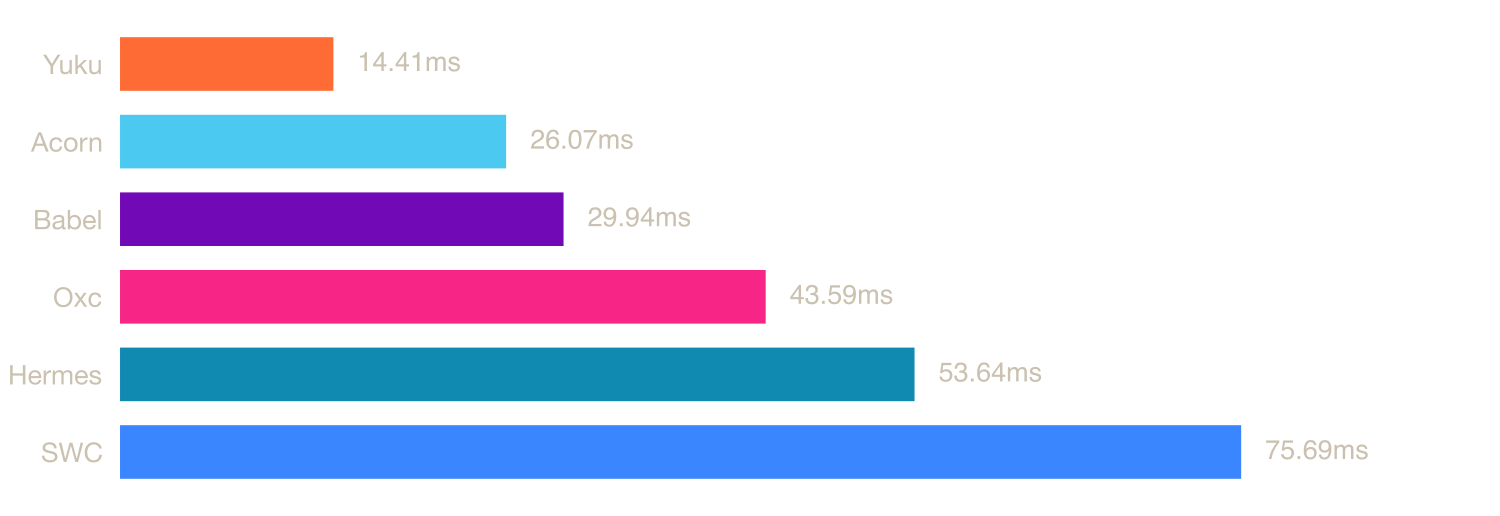
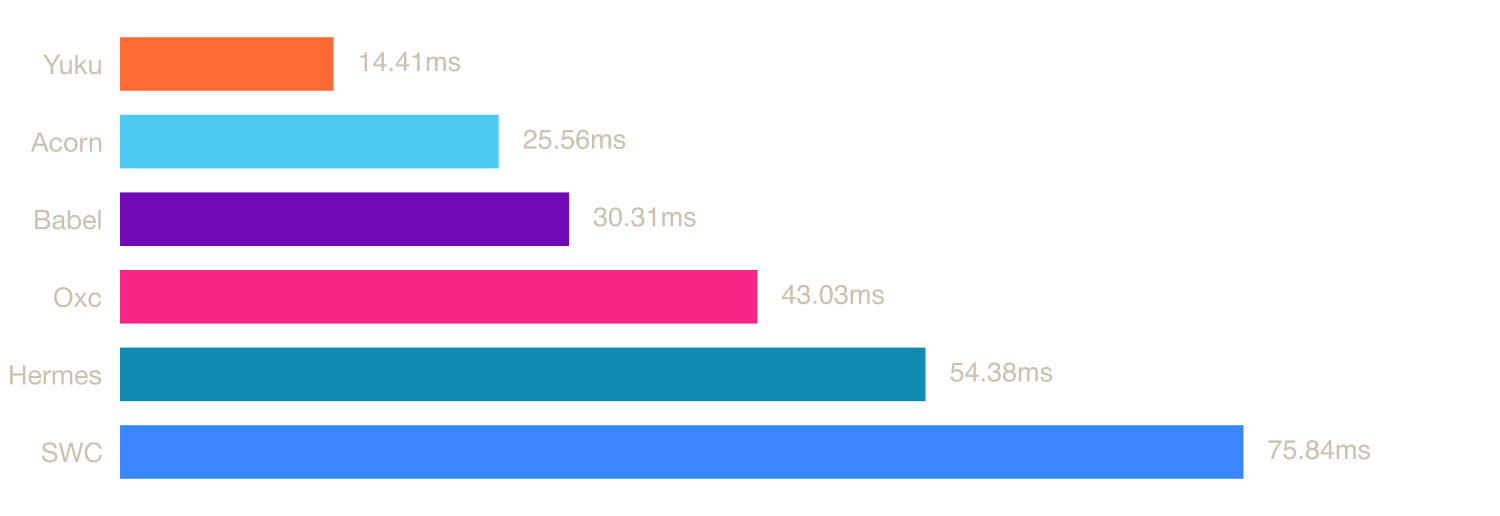
chore: update daily benchmark results

diff --git a/README.md b/README.md
@@ -47,12 +47,12 @@ A high-performance & spec-compliant JavaScript/TypeScript compiler written in Zi
 
 | Parser | Mean | Min | Max |
 |--------|------|-----|-----|
-| Yuku | 50.00 ms | 46.60 ms | 64.62 ms |
-| Acorn | 114.71 ms | 104.52 ms | 130.44 ms |
-| Babel | 155.38 ms | 125.06 ms | 197.03 ms |
-| Oxc | 233.01 ms | 225.61 ms | 256.33 ms |
-| Hermes | 242.55 ms | 218.87 ms | 298.53 ms |
-| SWC | 417.36 ms | 394.00 ms | 482.37 ms |
+| Yuku | 49.42 ms | 46.85 ms | 61.71 ms |
+| Acorn | 112.81 ms | 103.48 ms | 129.08 ms |
+| Babel | 154.58 ms | 125.18 ms | 189.79 ms |
+| Oxc | 232.35 ms | 226.32 ms | 242.29 ms |
+| Hermes | 238.61 ms | 215.66 ms | 270.83 ms |
+| SWC | 414.53 ms | 399.10 ms | 506.23 ms |
 
 ### [three.js](https://raw.githubusercontent.com/yuku-toolchain/parser-benchmark-files/refs/heads/main/three.js)
 
@@ -62,12 +62,12 @@ A high-performance & spec-compliant JavaScript/TypeScript compiler written in Zi
 
 | Parser | Mean | Min | Max |
 |--------|------|-----|-----|
-| Yuku | 14.41 ms | 13.84 ms | 20.74 ms |
-| Acorn | 26.07 ms | 24.27 ms | 31.50 ms |
-| Babel | 29.94 ms | 24.96 ms | 38.01 ms |
-| Oxc | 43.59 ms | 42.13 ms | 49.88 ms |
-| Hermes | 53.64 ms | 49.94 ms | 73.71 ms |
-| SWC | 75.69 ms | 74.31 ms | 79.52 ms |
+| Yuku | 14.41 ms | 13.77 ms | 19.51 ms |
+| Acorn | 25.56 ms | 24.28 ms | 30.30 ms |
+| Babel | 30.31 ms | 24.46 ms | 44.19 ms |
+| Oxc | 43.03 ms | 41.94 ms | 47.66 ms |
+| Hermes | 54.38 ms | 50.73 ms | 65.01 ms |
+| SWC | 75.84 ms | 74.35 ms | 80.75 ms |
 
 ### [react.js](https://raw.githubusercontent.com/yuku-toolchain/parser-benchmark-files/refs/heads/main/react.js)
 
@@ -77,12 +77,12 @@ A high-performance & spec-compliant JavaScript/TypeScript compiler written in Zi
 
 | Parser | Mean | Min | Max |
 |--------|------|-----|-----|
-| Yuku | 0.35 ms | 0.33 ms | 4.53 ms |
-| Acorn | 0.83 ms | 0.79 ms | 2.26 ms |
-| Babel | 0.94 ms | 0.84 ms | 4.60 ms |
-| Oxc | 1.37 ms | 1.31 ms | 3.77 ms |
-| Hermes | 1.65 ms | 1.51 ms | 5.65 ms |
-| SWC | 2.48 ms | 2.40 ms | 3.73 ms |
+| Yuku | 0.35 ms | 0.33 ms | 4.75 ms |
+| Acorn | 0.84 ms | 0.79 ms | 3.79 ms |
+| Babel | 0.90 ms | 0.80 ms | 6.25 ms |
+| Oxc | 1.34 ms | 1.28 ms | 2.31 ms |
+| Hermes | 1.65 ms | 1.54 ms | 6.12 ms |
+| SWC | 2.49 ms | 2.40 ms | 3.64 ms |
 
 ## Run Benchmarks
 
